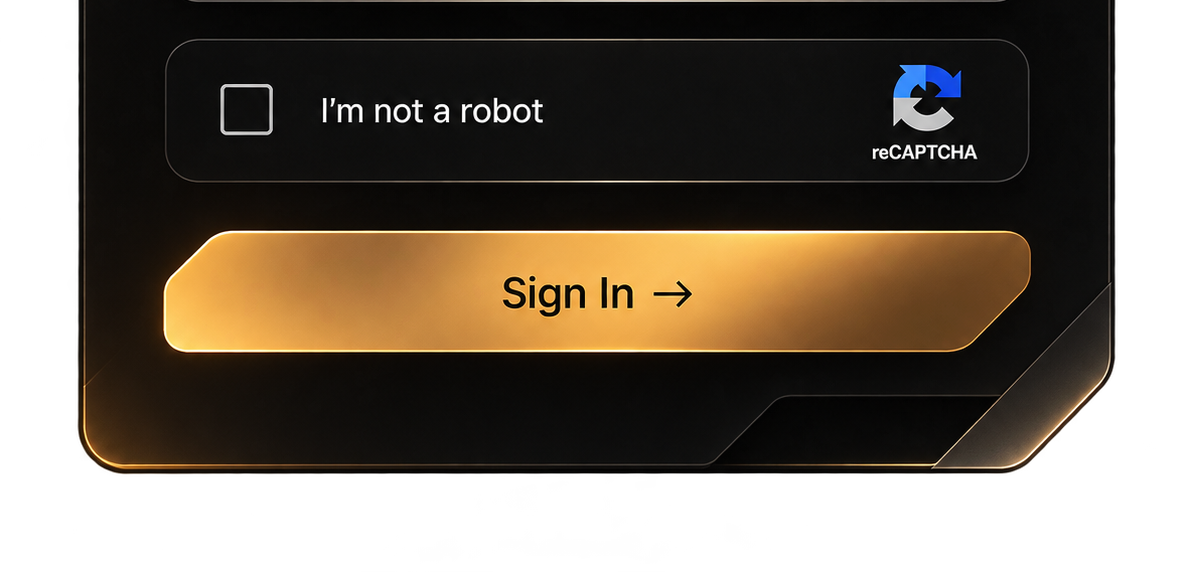
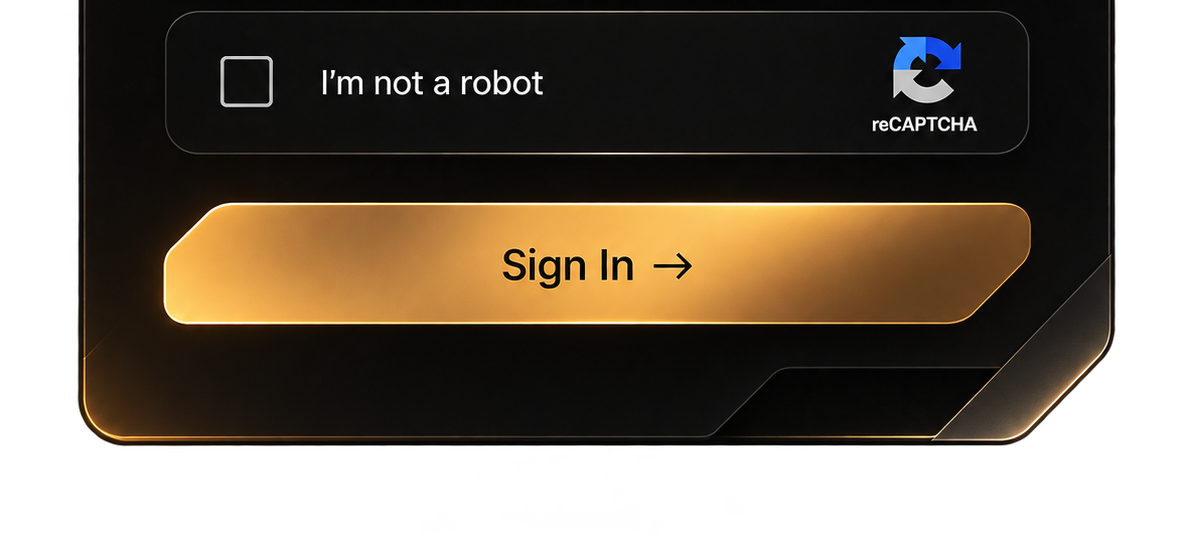
Line up the account fields and start reCAPTCHA immediately.
Name and confirm password use the email row's padding and the same gap, and the checkbox stays mounted so it is not fetched again when the form switches.

diff --git a/src/features/auth/ForgeLoginPicture.tsx b/src/features/auth/ForgeLoginPicture.tsx
@@ -1,4 +1,4 @@
-import { useState, type FormEvent, type ReactNode } from "react";
+import { useLayoutEffect, useRef, useState, type FormEvent, type ReactNode } from "react";
 import Box from "@mui/material/Box";
 import { isDevSite } from "@/dev-site";
 import { RecaptchaField } from "./RecaptchaField";
@@ -45,7 +45,7 @@ const inputSx = {
 
 function LockIcon() {
   return (
-    <svg width="18" height="18" viewBox="0 0 24 24" aria-hidden fill="none" stroke="#d9d3cb" strokeWidth="1.6">
+    <svg width="4.3cqw" height="4.3cqw" viewBox="0 0 24 24" aria-hidden fill="none" stroke="#f2efe9" strokeWidth="1.6">
       <rect x="5" y="11" width="14" height="9" rx="2" />
       <path d="M8 11V8a4 4 0 0 1 8 0v3" />
     </svg>
@@ -54,7 +54,7 @@ function LockIcon() {
 
 function PersonIcon() {
   return (
-    <svg width="18" height="18" viewBox="0 0 24 24" aria-hidden fill="none" stroke="#d9d3cb" strokeWidth="1.6">
+    <svg width="4.3cqw" height="4.3cqw" viewBox="0 0 24 24" aria-hidden fill="none" stroke="#f2efe9" strokeWidth="1.6">
       <circle cx="12" cy="8" r="3.2" />
       <path d="M5 19c1.4-3 3.8-4.5 7-4.5S17.6 16 19 19" />
     </svg>
@@ -87,9 +87,9 @@ function FieldRow({
       sx={{
         display: "flex",
         alignItems: "center",
-        gap: 1.25,
+        gap: "5cqw",
         height: "9.9cqw",
-        px: "2cqw",
+        px: "4.6cqw",
         borderRadius: "2.6cqw",
         border: "1px solid rgba(214,206,192,0.55)",
         bgcolor: "rgba(0,0,0,0.28)",
@@ -111,7 +111,7 @@ function FieldRow({
         value={value}
         autoComplete={autoComplete}
         onChange={(event) => onChange(event.target.value)}
-        sx={inputSx}
+        sx={{ ...inputSx, fontSize: "2.7cqw" }}
       />
       {end}
     </Box>
@@ -139,7 +139,44 @@ export function ForgeLoginPicture({
 }: ForgeLoginPictureProps) {
   const [showPassword, setShowPassword] = useState(false);
   const [captchaToken, setCaptchaToken] = useState<string | null>(null);
+  const [captchaReady, setCaptchaReady] = useState(false);
   const [localError, setLocalError] = useState<string | null>(null);
+  const [captchaBox, setCaptchaBox] = useState({ left: 0, top: 0, width: 0, height: 0 });
+  const formRef = useRef<HTMLFormElement>(null);
+  const captchaSlotRef = useRef<HTMLDivElement>(null);
+  useLayoutEffect(() => {
+    const form = formRef.current;
+    const slot = captchaSlotRef.current;
+    if (!form || !slot) return;
+    const place = () => {
+      const formBox = form.getBoundingClientRect();
+      const slotBox = slot.getBoundingClientRect();
+      const next = {
+        left: slotBox.left - formBox.left,
+        top: slotBox.top - formBox.top,
+        width: slotBox.width,
+        height: slotBox.height,
+      };
+      setCaptchaBox((prev) => (
+        Math.abs(prev.left - next.left) < 0.5
+        && Math.abs(prev.top - next.top) < 0.5
+        && Math.abs(prev.width - next.width) < 0.5
+        && Math.abs(prev.height - next.height) < 0.5
+          ? prev
+          : next
+      ));
+    };
+    place();
+    const observer = new ResizeObserver(place);
+    observer.observe(form);
+    observer.observe(slot);
+    if (slot.parentElement) observer.observe(slot.parentElement);
+    window.addEventListener("resize", place);
+    return () => {
+      observer.disconnect();
+      window.removeEventListener("resize", place);
+    };
+  }, [mode]);
   const dev = isDevSite();
   const message = localError || error;
   const art = (file: string) => (
@@ -171,13 +208,13 @@ export function ForgeLoginPicture({
   const credentialHoles = (frame: "full" | "fields") => {
     const emailBox = frame === "full"
       ? { left: "25.2%", top: "37%", width: "57.9%", height: "7.58%" }
-      : { left: "25.2%", top: "11%", width: "57.9%", height: "34.4%" };
+      : { left: "25.2%", top: "10.7%", width: "57.9%", height: "33.5%" };
     const passwordBox = frame === "full"
       ? { left: "25.2%", top: "48.64%", width: "50.3%", height: "7.58%" }
-      : { left: "25.2%", top: "64.2%", width: "50.3%", height: "34.4%" };
+      : { left: "25.2%", top: "62.5%", width: "50.3%", height: "33.5%" };
     const eyeBox = frame === "full"
       ? { left: "77.6%", top: "49.6%", width: "6.7%", height: "6.1%" }
-      : { left: "77.6%", top: "68.6%", width: "6.7%", height: "24%" };
+      : { left: "77.6%", top: "66.8%", width: "6.7%", height: "23.4%" };
     return (
       <>
         <Box
@@ -215,54 +252,30 @@ export function ForgeLoginPicture({
     // Same column as the email field. Inset a few pixels so the painted stroke stays visible.
     const captcha = frame === "full"
       ? { left: "14.01%", top: "59.92%", width: "71.98%", height: "10.15%" }
-      : { left: "14.01%", top: "7.52%", width: "71.98%", height: "23.43%" };
+      : { left: "14.01%", top: "2.76%", width: "71.98%", height: "24.63%" };
     const button = frame === "full"
       ? { left: "14%", top: "74.1%", width: "72%", height: "9.2%" }
-      : { left: "14%", top: "40.2%", width: "72%", height: "21.7%" };
+      : { left: "14%", top: "37.1%", width: "72%", height: "22.8%" };
     const link = frame === "full"
       ? { left: "28%", top: "85.4%", width: "44%" }
-      : { left: "28%", top: "66.4%", width: "44%" };
+      : { left: "28%", top: "64.7%", width: "44%" };
     return (
       <>
         <Box
+          ref={captchaSlotRef}
           sx={{
             position: "absolute",
             ...captcha,
             overflow: "hidden",
-            bgcolor: "#222",
             borderRadius: "2.4cqw",
           }}
-        >
-          <Box
-            sx={{
-              width: 304,
-              height: 78,
-              overflow: "hidden",
-              position: "relative",
-              transformOrigin: "top left",
-              transform:
-                "scaleX(calc(100cqw * 0.7198 / 304px)) scaleY(calc(100cqw * 0.1124 / 78px))",
-            }}
-          >
-            <RecaptchaField
-              key={mode}
-              onToken={(token) => {
-                setCaptchaToken(token);
-                if (token) setLocalError(null);
-              }}
-              onError={(next) => setLocalError(next)}
-            />
-            {/* The test key paints a red line over the logo. Cover it; the checkbox starts lower. */}
-            <Box sx={{ position: "absolute", left: 0, top: 0, width: 304, height: 12, bgcolor: "#222", pointerEvents: "none" }} />
-            <Box sx={{ position: "absolute", left: 0, top: 12, width: 236, height: 11, bgcolor: "#222", pointerEvents: "none" }} />
-          </Box>
-        </Box>
+        />
         {message ? (
           <Box
             sx={{
               position: "absolute",
               left: "16%",
-              top: frame === "full" ? "71.2%" : "33%",
+              top: frame === "full" ? "71.2%" : "29.6%",
               width: "68%",
               color: "#ffb4b4",
               fontSize: "2.2cqw",
@@ -303,7 +316,6 @@ export function ForgeLoginPicture({
           type="button"
           onClick={() => {
             setLocalError(null);
-            setCaptchaToken(null);
             onMode(mode === "login" ? "signup" : "login");
           }}
           sx={{
@@ -387,9 +399,11 @@ export function ForgeLoginPicture({
         ) : null}
 
         <Box
+          ref={formRef}
           component="form"
           onSubmit={submit}
           sx={{
+            position: "relative",
             width: mode === "signup"
               ? "min(640px, calc((100dvh - 64px) / 1.36), 100%)"
               : "min(640px, calc((100dvh - 64px) / 1.108), 100%)",
@@ -408,7 +422,8 @@ export function ForgeLoginPicture({
                   backgroundSize: "100% auto",
                   pl: "13.76%",
                   pr: "13.76%",
-                  py: "1.15cqw",
+                  pt: "1.5cqw",
+                  pb: "1.34cqw",
                 }}
               >
                 <FieldRow
@@ -431,7 +446,8 @@ export function ForgeLoginPicture({
                   backgroundSize: "100% auto",
                   pl: "13.76%",
                   pr: "13.76%",
-                  py: "1.15cqw",
+                  pt: "2.68cqw",
+                  pb: "2.18cqw",
                 }}
               >
                 <FieldRow
@@ -456,6 +472,47 @@ export function ForgeLoginPicture({
               {footControls("full")}
             </Box>
           )}
+          <Box
+            sx={{
+              position: "absolute",
+              left: captchaBox.left,
+              top: captchaBox.top,
+              width: captchaBox.width,
+              height: captchaBox.height,
+              overflow: "hidden",
+              borderRadius: "2.4cqw",
+              visibility: captchaBox.width > 0 ? "visible" : "hidden",
+              pointerEvents: captchaReady ? "auto" : "none",
+            }}
+          >
+            <Box
+              sx={{
+                width: 304,
+                height: 78,
+                overflow: "hidden",
+                position: "relative",
+                transformOrigin: "top left",
+                transform: captchaBox.width
+                  ? `scaleX(${captchaBox.width / 304}) scaleY(${captchaBox.height / 78})`
+                  : "none",
+              }}
+            >
+              <RecaptchaField
+                onToken={(token) => {
+                  setCaptchaToken(token);
+                  if (token) setLocalError(null);
+                }}
+                onError={(next) => setLocalError(next)}
+                onReady={() => setCaptchaReady(true)}
+              />
+              {captchaReady ? (
+                <>
+                  <Box sx={{ position: "absolute", left: 0, top: 0, width: 304, height: 12, bgcolor: "#222", pointerEvents: "none" }} />
+                  <Box sx={{ position: "absolute", left: 0, top: 12, width: 236, height: 11, bgcolor: "#222", pointerEvents: "none" }} />
+                </>
+              ) : null}
+            </Box>
+          </Box>
         </Box>
       </Box>
     </Box>

diff --git a/src/features/auth/RecaptchaField.tsx b/src/features/auth/RecaptchaField.tsx
@@ -21,38 +21,61 @@ function grecaptcha(): Grecaptcha | undefined {
   return (window as Window & { grecaptcha?: Grecaptcha }).grecaptcha;
 }
 
+const RECAPTCHA_SRC = "https://www.recaptcha.net/recaptcha/api.js?render=explicit";
+
 let scriptPromise: Promise<void> | null = null;
 
-function loadRecaptcha(): Promise<void> {
+function loadRecaptcha(attempt = 0): Promise<void> {
   if (grecaptcha()) return Promise.resolve();
-  if (scriptPromise) return scriptPromise;
+  if (scriptPromise && attempt === 0) return scriptPromise;
   scriptPromise = new Promise((resolve, reject) => {
     const script = document.createElement("script");
     // recaptcha.net is Google's endpoint for networks that block google.com.
-    script.src = "https://www.recaptcha.net/recaptcha/api.js?render=explicit";
+    script.src = RECAPTCHA_SRC;
     script.async = true;
-    script.onload = () => resolve();
-    script.onerror = () => {
+    let settled = false;
+    const finish = (ok: boolean) => {
+      if (settled) return;
+      settled = true;
+      window.clearTimeout(timer);
+      if (ok) {
+        resolve();
+        return;
+      }
+      script.remove();
       scriptPromise = null;
+      if (attempt < 2) {
+        loadRecaptcha(attempt + 1).then(resolve, reject);
+        return;
+      }
       reject(new Error("reCAPTCHA failed to load."));
     };
+    // A stuck connection never fires onerror. Retry so the checkbox is not a blank bar.
+    const timer = window.setTimeout(() => finish(false), 8000);
+    script.onload = () => finish(true);
+    script.onerror = () => finish(false);
     document.head.appendChild(script);
   });
   return scriptPromise;
 }
 
+if (typeof document !== "undefined") loadRecaptcha();
+
 interface RecaptchaFieldProps {
   readonly onToken: (token: string | null) => void;
   readonly onError: (message: string) => void;
+  readonly onReady?: () => void;
 }
 
 /** Official reCAPTCHA v2 checkbox. Submit stays blocked until Google accepts it. */
-export function RecaptchaField({ onToken, onError }: RecaptchaFieldProps) {
+export function RecaptchaField({ onToken, onError, onReady }: RecaptchaFieldProps) {
   const host = useRef<HTMLDivElement>(null);
   const onTokenRef = useRef(onToken);
   const onErrorRef = useRef(onError);
+  const onReadyRef = useRef(onReady);
   onTokenRef.current = onToken;
   onErrorRef.current = onError;
+  onReadyRef.current = onReady;
 
   useEffect(() => {
     let cancelled = false;
@@ -69,6 +92,7 @@ export function RecaptchaField({ onToken, onError }: RecaptchaFieldProps) {
             "expired-callback": () => onTokenRef.current(null),
             "error-callback": () => onErrorRef.current("reCAPTCHA could not be confirmed."),
           });
+          onReadyRef.current?.();
         });
       })
       .catch(() => {
